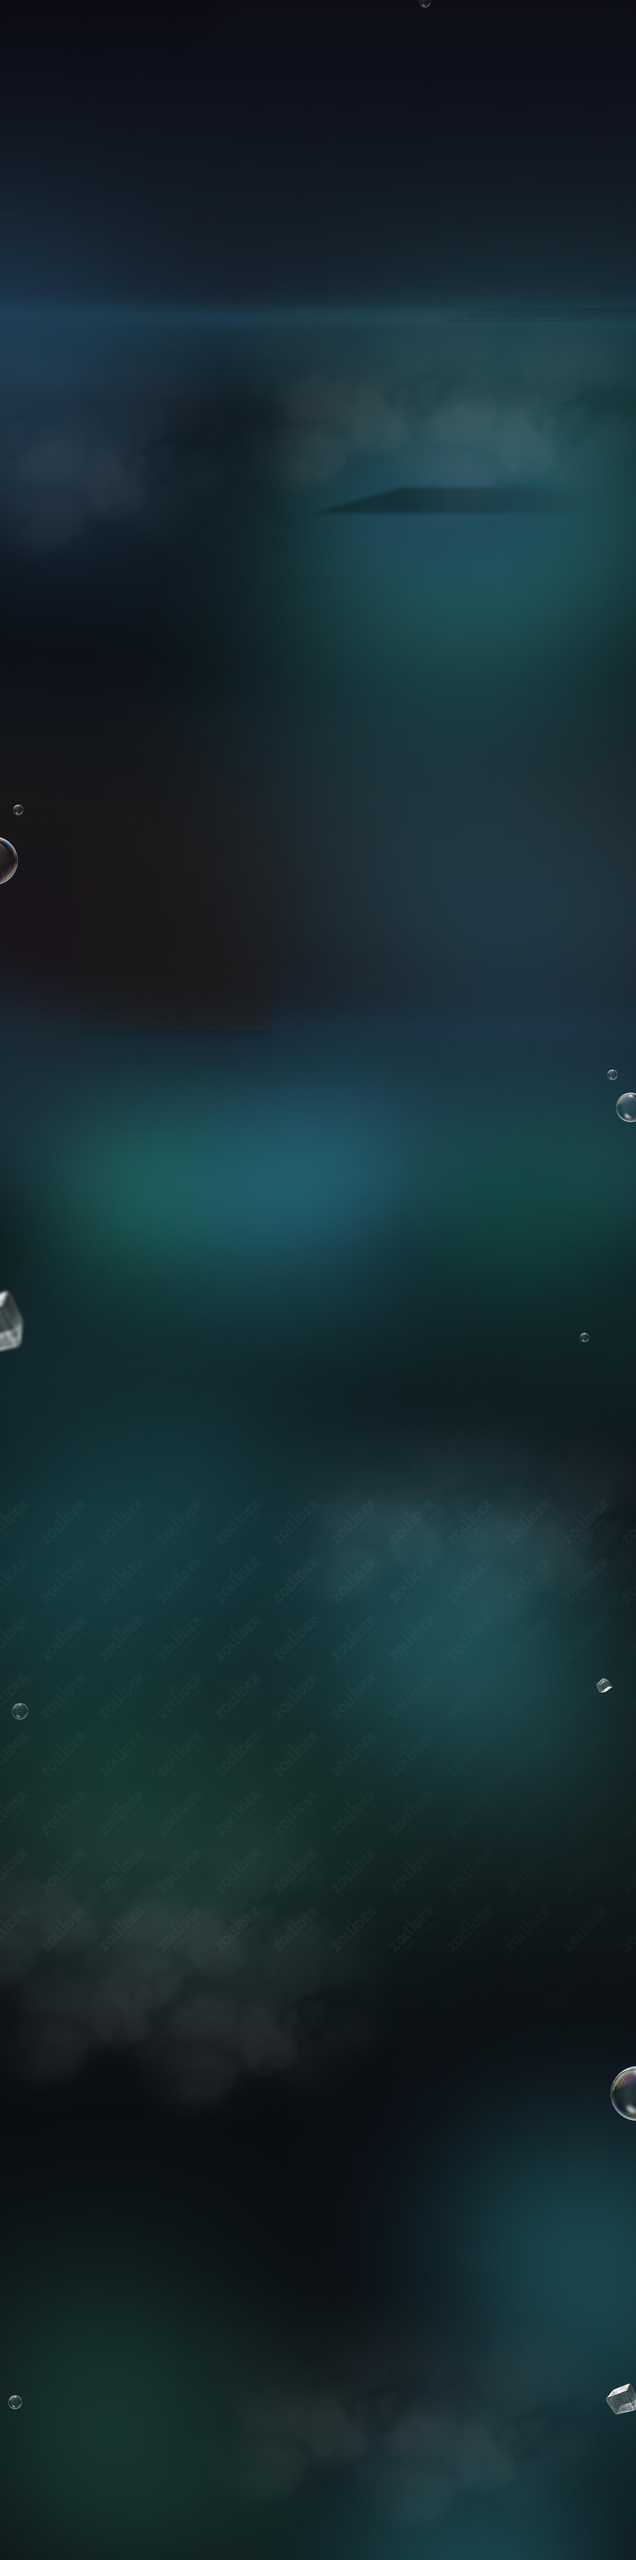
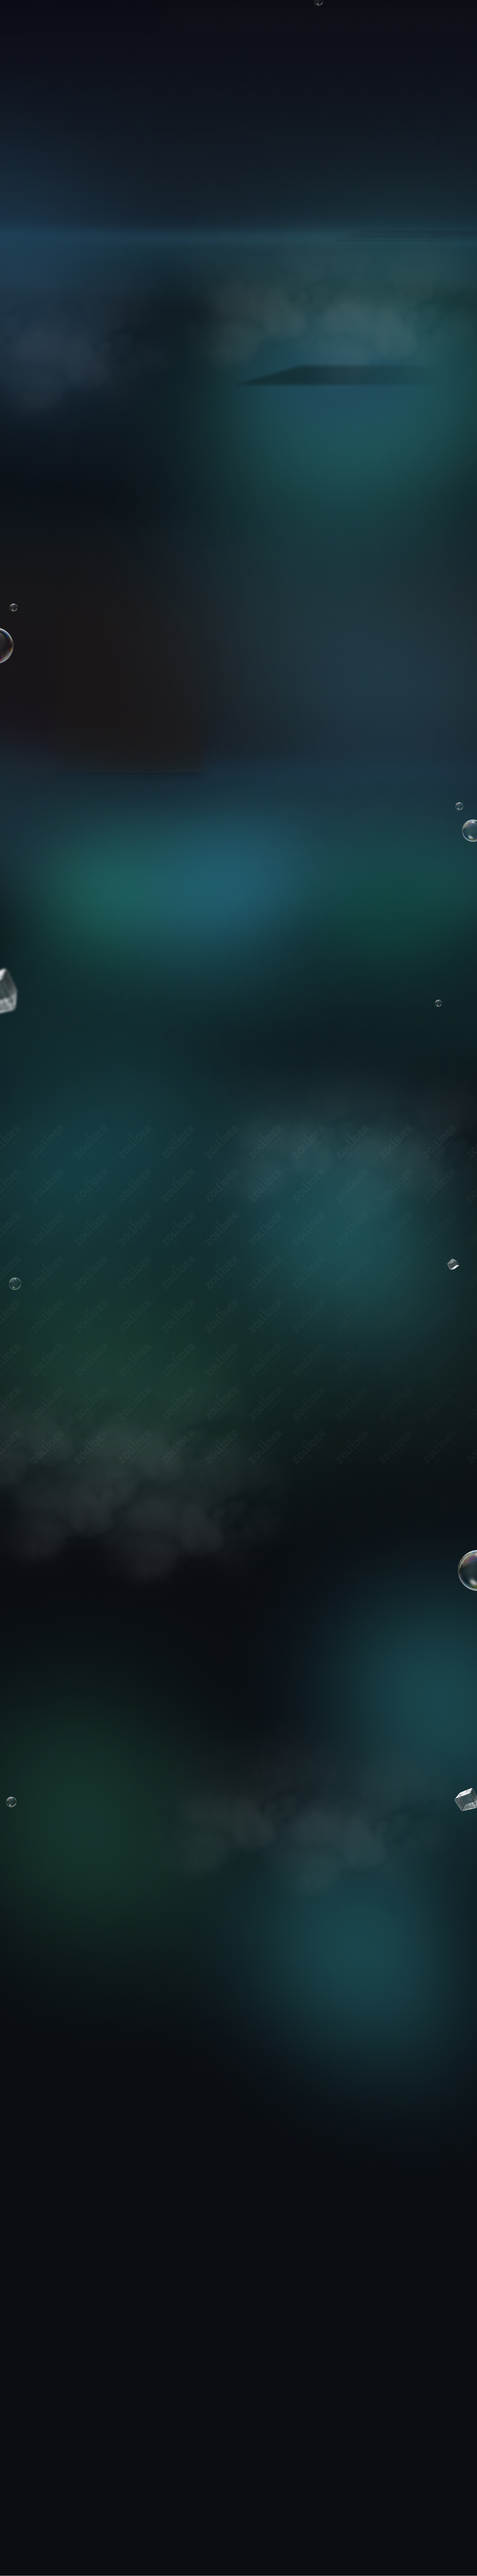
fix bg

diff --git a/components/FourthScreen.vue b/components/FourthScreen.vue
@@ -1,5 +1,9 @@
 <template>
   <div class="block" id="podajte-zayavku">
+    <div class="block__bg">
+      <img class="only-pc" src="@/assets/img/reg-bg-pc.jpg" alt="">
+      <img class="only-sp" src="@/assets/img/reg-bg-sp.jpg" alt="">
+    </div>
     <div class="container">
       <div class="block__inner">
         <div class="block__left wow slow fadeInUp">
@@ -23,9 +27,13 @@ export default {}
 <style lang="scss" scoped>
 .block {
   margin-bottom: 2.7rem;
+  position: relative;
+  z-index: 2;
   &__inner {
     display: flex;
     gap: 4rem;
+    position: relative;
+    z-index: 2;
   }
   &__left {
     width: 50%;
@@ -33,12 +41,21 @@ export default {}
   &__img {
     position: relative;
     left: -6rem;
+    img {
+      display: none;
+    }
   }
   &__title {
     margin-bottom: 5rem;
   }
   &__right {
     width: 50%;
+  }
+  &__bg {
+    position: absolute;
+    left: 0;
+    top: 18.7rem;
+    z-index: 1;
   }
   @include mob {
     margin-bottom: 4.8rem;
@@ -51,12 +68,19 @@ export default {}
     &__img {
       position: relative;
       left: 0;
+      img {
+        display: block;
+        opacity: 0;
+      }
     }
     &__title {
       margin-bottom: 5rem;
     }
     &__right {
       width: 100%;
+    }
+    &__bg {
+      top: -5.9rem;
     }
   }
 }

diff --git a/components/FirstScreen.vue b/components/FirstScreen.vue
@@ -1,5 +1,8 @@
 <template>
   <div class="block">
+    <div class="block__bg">
+      <img src="@/assets/img/main-bg-pc.jpg" alt="">
+    </div>
     <div class="container">
       <div class="block__inner">
         <div class="block__content">
@@ -39,8 +42,11 @@ export default {
   .block {
     padding-bottom: 9.6rem;
     margin-bottom: 15.6rem;
+    position: relative;
+    z-index: 2;
     &__inner {
       position: relative;
+      z-index: 2;
     }
     &__content {
       padding-top: 20rem;
@@ -81,7 +87,14 @@ export default {
         left: 5rem;
         top: 12rem;
         transform: scale(1.2566);
+        display: none;
       }
+    }
+    &__bg {
+      position: absolute;
+      left: 0;
+      top: 0;
+      z-index: 1;
     }
     @include mob {
       overflow: hidden;
@@ -116,10 +129,14 @@ export default {
         position: static;
         margin-bottom: 5.2rem;
         img {
+          display: block;
           left: auto;
           top: 1.3rem;
           transform: scale(1.2);
         }
+      }
+      &__bg {
+        display: none;
       }
     }
   }

diff --git a/components/ThirdScreen.vue b/components/ThirdScreen.vue
@@ -57,7 +57,9 @@ export default {
     }
     @include mob {
       padding-top: 0;
-      margin-bottom: 12.7rem;
+      margin-bottom: 5.5rem;
+      position: relative;
+      z-index: 3;
       &__inner {
         background-image: url(@/assets/img/prize-bg-sp.jpg);
         padding: 0;

diff --git a/assets/scss/_settings.scss b/assets/scss/_settings.scss
@@ -61,7 +61,7 @@ body {
   background-color: $dark-bg;
   font-size: 1.6rem;
   letter-spacing: 0.083em;
-  background-size: 100% 100%;
+  background-size: 100% auto;
   background-position: top center;
   scroll-behavior: smooth;
   &.lock {
